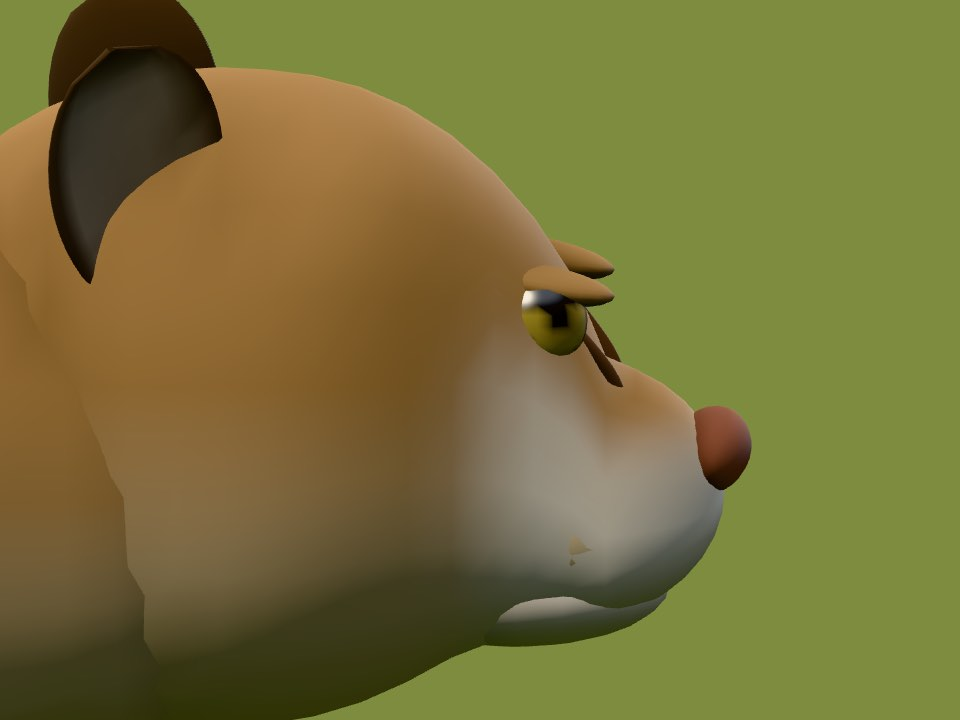
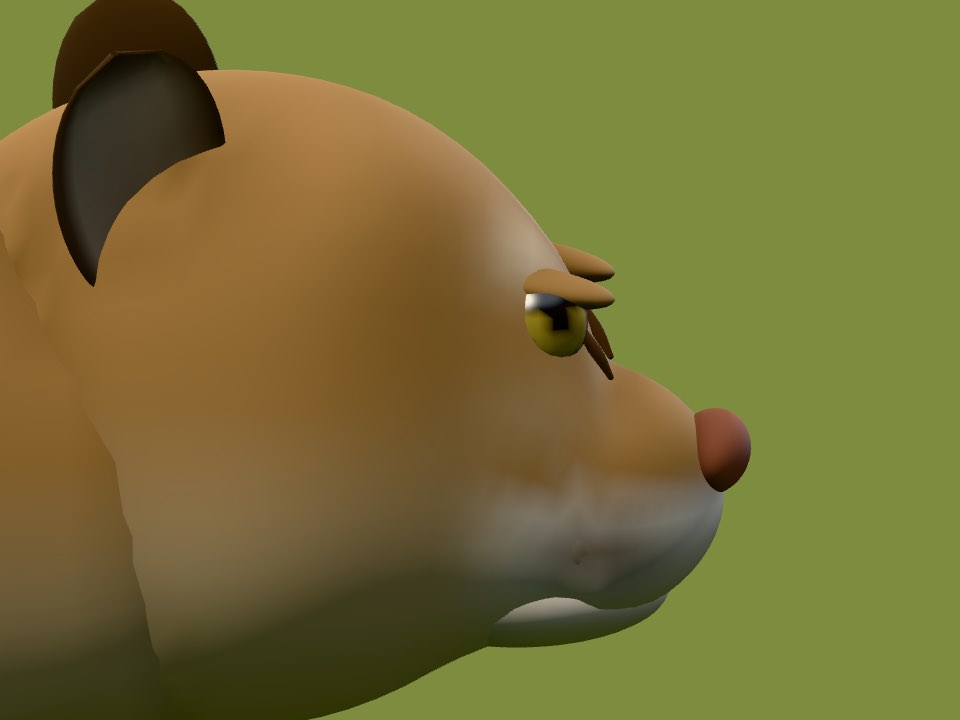
Cougar face fur: darker bridge, pale over the eyes, white lip, dark whisker roots; short eye streaks from the inner corner

diff --git a/js/render3d/animals/quadrupeds.js b/js/render3d/animals/quadrupeds.js
@@ -476,6 +476,32 @@ function cougarEye(H, hs) {
   };
 }
 
+// A cougar's face fur, in the head's vertex colours (from the photos): a darker bridge down the middle
+// of the face, a pale spot over each eye and a paler cheek under it, a white upper lip, and the dark
+// patch where the whiskers start on each side of the muzzle. Soft-edged, fur not paint. Positions follow
+// the plain cat's head in feline (hp, hr, the muzzle and the eyes as quadruped places them).
+function plainFace(s, H, L, by) {
+  const hp = [L * 0.55, by + H * 0.14], hr = [H * 0.33, H * 0.3, H * 0.24], sn = [hp[0] + hr[0] * 0.78, hp[1] - hr[1] * 0.28], snout = H * 0.15;
+  const eye = [hp[0] + hr[0] * 0.86, hp[1] + hr[1] * 0.28, hr[2] * 0.42], r = Math.max(0.55, H * 0.045);
+  const tawny = col(s.color), bridge = shade(s.color, -0.16), pale = col('#eadcc2'), white = col('#f1eadf'), patch = col('#3e2c21');
+  const blob = (p, c, k) => Math.exp(-(((p.x - c[0]) / k[0]) ** 2 + ((p.y - c[1]) / k[1]) ** 2 + ((Math.abs(p.z) - c[2]) / k[2]) ** 2));
+  const fur = (o, p) => {
+    const az = Math.abs(p.z);
+    // the bridge: the middle of the face from between the eyes to the nose, a shade darker
+    o.lerp(bridge, 0.65 * smooth(hr[2] * 0.22, hr[2] * 0.06, az) * smooth(eye[0] - r * 2, eye[0], p.x) * smooth(sn[1], sn[1] + hr[1] * 0.25, p.y));
+    o.lerp(pale, 0.7 * blob(p, [eye[0] - r * 0.4, eye[1] + r * 1.3, eye[2] * 0.9], [r * 1.1, r * 0.8, r * 1.5]));
+    o.lerp(pale, 0.4 * blob(p, [eye[0] - r * 0.8, eye[1] - r * 1.8, eye[2] * 1.15], [r * 1.8, r * 1.0, r * 1.4]));
+    o.lerp(patch, 0.75 * blob(p, [sn[0] + snout * 0.55, sn[1] - hr[1] * 0.12, hr[2] * 0.5], [snout * 0.45, hr[1] * 0.13, hr[2] * 0.3]));
+    return o;
+  };
+  const headOut = col('#000').clone(), mzOut = col('#000').clone(), base = grad(s.color, s.belly, -0.3, 0.5);
+  return {
+    head: (u, p) => fur(headOut.copy(base(u)), p),
+    // the muzzle: tawny on top, the upper lip white below the line of the nose, then the same fur
+    muzzle: (u, p) => fur(mzOut.copy(tawny).lerp(white, smooth(sn[1] + hr[1] * 0.12, sn[1] - hr[1] * 0.05, p.y)), p),
+  };
+}
+
 const MAMMALS = {
   deer: s => {
     const L = s.len, H = s.h, leg = s.leg, by = leg + H * 0.5;
@@ -587,16 +613,16 @@ const MAMMALS = {
       // (a plain cat: the hind thigh runs back into the rump, the legs taper to slim ankles over big paws)
       thighBack: plain ? H * 0.18 : 0, paw: plain ? 1.35 : 1, legSub: plain ? 8 : undefined, stifle: plain ? 0.72 : undefined, legSeg: plain ? 16 : undefined,
       neckR: H * (lion ? 0.25 : 0.3 - k * 0.02), dots: s.cheetah ? [s.dark, 9, 0.2] : s.spotted ? [s.dark, 11, 0.21] : s.bobtail ? [shade(s.color, -0.4), 13, 0.16] : null, coatFine: s.bobtail ? false : undefined, rosettes: s.rosettes,
-      coat, legColor, fine: s.clouds ? 2 : lion, detail: !!(lion || k), legRings: legColor ? 8 : undefined,
+      coat, legColor, fine: s.clouds ? 2 : lion, detail: !!(lion || k || plain), legRings: legColor ? 8 : undefined,
       paws: true, toes: true, // soft, articulated paws
       // (a plain cat carries a slightly smaller head lower and a little further forward, the skull's top
       // about level with the back, as the photos show)
       head: plain ? [L * 0.55, by + H * 0.14] : [L * 0.5, by + H * (lion ? 0.3 : 0.38 - k * 0.1)], headR: [H * (lion ? 0.34 : plain ? 0.33 : 0.36) * hs, H * (lion ? 0.31 : plain ? 0.3 : 0.33) * hs, H * (lion ? 0.32 : plain ? 0.24 : 0.34) * hs], snout: H * 0.15 * hs,
       nose: lion || k || plain ? false : undefined, eyeR: lion ? H * 0.038 : undefined,
-      ears: lion ? 'none' : s.bobtail ? 'point' : 'round', ear: H * (s.bobtail ? 0.2 : k ? 0.18 : s.rosettes || s.cheetah ? 0.27 : s.clouds ? 0.22 : plain ? 0.21 : 0.24), earTurn: plain ? 0.6 : undefined, earUp: plain ? 0.55 : undefined, earSide: plain ? 0.68 : undefined, earOut: 0.2, earBack: 0.1, earW: s.bobtail ? 0.55 : 0.45, tufts: s.bobtail, muzzle: plain ? grad(s.color, '#f1eadf', 0.2, 0.3) : grad(s.color, s.belly, 0.1, 0.4),
+      ears: lion ? 'none' : s.bobtail ? 'point' : 'round', ear: H * (s.bobtail ? 0.2 : k ? 0.18 : s.rosettes || s.cheetah ? 0.27 : s.clouds ? 0.22 : plain ? 0.21 : 0.24), earTurn: plain ? 0.6 : undefined, earUp: plain ? 0.55 : undefined, earSide: plain ? 0.68 : undefined, earOut: 0.2, earBack: 0.1, earW: s.bobtail ? 0.55 : 0.45, tufts: s.bobtail, muzzle: plain ? plainFace(s, H, L, by).muzzle : grad(s.color, s.belly, 0.1, 0.4),
       // (a plain cat, the cougar: ear backs dark, amber eyes, a pinkish-brown nose)
       earColor: plain ? shade(s.dark, -0.15) : null, eyeColor: plain ? cougarEye(H, hs) : undefined, eyeFwd: plain ? 0.86 : undefined, eyeOut: plain ? 0.42 : undefined, muzzleDepth: plain ? 0.4 : undefined, brow: plain ? 0.14 : undefined, noseColor: plain ? '#7d5246' : undefined,
-      headPaint: s.clouds ? felineSpots(s, H, base, H * 0.1) : k ? felineSpots(s, H, undefined, H * 0.09)
+      headPaint: plain ? plainFace(s, H, L, by).head : s.clouds ? felineSpots(s, H, base, H * 0.1) : k ? felineSpots(s, H, undefined, H * 0.09)
         : s.rosettes || s.cheetah || s.spotted || s.bobtail ? felineSpots(s, H, base, H * 0.07) : null, // (small solid spots on the head)
       face: (m, hp, hr, hd, sn) => {
         // a plain cat's nose: broad, flat and pinkish brown, lying on the muzzle's tip rather than a ball on it
@@ -609,7 +635,7 @@ const MAMMALS = {
           for (const side of [1, -1]) {
             const z = side * e[2];
             m.ell([e[0] - r * 0.1, e[1] + r * 0.72, z - side * r * 0.3], [H * 0.075, H * 0.017, H * 0.045], s.color, { ...hd, rot: [0, 0, -0.18] });
-            tube(m, [[e[0] + r * 0.75, e[1] - r * 0.3, z - side * r * 0.35], [e[0] + r * 1.4, e[1] - r * 1.1, z - side * r * 0.7], [e[0] + r * 1.9, e[1] - r * 2.1, z - side * r * 1.05]], [H * 0.0075, H * 0.006, H * 0.003], '#6a4c38', { ...hd, sub: 3, seg: 6 }); // (thin and a warm dark brown: a hint of the streak, not a stripe)
+            tube(m, [[e[0] + r * 0.75, e[1] - r * 0.15, z - side * r * 0.35], [e[0] + r * 1.15, e[1] - r * 0.65, z - side * r * 0.55], [e[0] + r * 1.45, e[1] - r * 1.2, z - side * r * 0.75]], [H * 0.0075, H * 0.006, H * 0.003], '#6a4c38', { ...hd, sub: 3, seg: 6 }); // (short, from the inner corner, a warm dark brown)
           }
           // the mouth: a dark lip line round the top of the chin, where it meets the muzzle (on the
           // chin's surface, a little proud of it), from the front back to the corners
@@ -641,7 +667,7 @@ const MAMMALS = {
         }
         if (lion || k) for (const side of [-1, 1]) tube(m, [[hp[0] + hr[0] * 0.72, hp[1] - hr[1] * 0.58, side * hr[2] * 0.37], [hp[0] + hr[0] * 1.1, hp[1] - hr[1] * 0.57, side * hr[2] * 0.34]], [H * 0.01, H * 0.007], '#443428', { ...hd, sub: 3, seg: 5 });
         // (pale whisker pads; a plain cat's a little smaller and lower, off the cheek under the eye)
-        if (plain) for (const side of [-1, 1]) m.ell([hp[0] + hr[0] * 0.95, hp[1] - hr[1] * 0.36, side * hr[2] * 0.26], [hr[0] * 0.28, hr[1] * 0.2, hr[2] * 0.3], s.belly || s.color, hd);
+        if (plain) for (const side of [-1, 1]) m.ell([hp[0] + hr[0] * 0.95, hp[1] - hr[1] * 0.36, side * hr[2] * 0.26], [hr[0] * 0.28, hr[1] * 0.2, hr[2] * 0.3], plainFace(s, H, L, by).muzzle, { ...hd, fine: true }); // (wearing the muzzle's fur: white lip, dark whisker roots)
         else for (const side of [-1, 1]) m.ell([hp[0] + hr[0] * 0.9, hp[1] - hr[1] * 0.3, side * hr[2] * 0.24], [hr[0] * 0.33, hr[1] * 0.24, hr[2] * 0.34], s.belly || s.color, hd);
         if (plain) m.ell([hp[0] + hr[0] * 0.8, hp[1] - hr[1] * 0.57, 0], [hr[0] * 0.42, hr[1] * 0.18, hr[2] * 0.48], '#efe7dc', hd); // (a cougar's strong, rounded white chin)
         else m.ell([hp[0] + hr[0] * 0.7, hp[1] - hr[1] * 0.65, 0], [hr[0] * 0.4, hr[1] * 0.14, hr[2] * 0.39], s.belly || s.color, hd);

diff --git a/docs/ideas/2026-11-26-aesthetics/s6.md b/docs/ideas/2026-11-26-aesthetics/s6.md
@@ -37,7 +37,8 @@ same scale. Then one change at a time, each shown to Cole against the photo befo
   a dark lip line that rises to a point under the nose; smaller, lower whisker pads.
 - **Measured against three photos**: side-on, the eye at 0.47 of nose-to-ear (photos 0.47-0.50);
   head-on, face width, pad width, eye size and spacing within about 10% of the photo.
-- **Cost**: triangles, usual model 7.9k -> 12.8k, close-up 19.9k -> 32.5k (one cougar per map).
+- **Face fur** (Cole: "much better"): soft markings in the head's vertex colours (`plainFace`): a darker bridge, a pale spot over each eye and paler cheeks, a white upper lip, dark whisker roots (on the pads too). The eye streaks are short marks from the inner corner. For soft edges the head uses the finer mesh the lion and jaguar use (`detail`).
+- **Cost**: triangles, usual model 7.9k -> 19.1k, close-up 19.9k -> 46.4k (one cougar per map; `perf-guard-check` within 10%).
   `?bench=1` filling a 1440x900 frame at 2x: the same as the bobcat and jaguar beside it in each run
   (close-up 1.6-2.0 ms, usual 2.7-3.3 ms, machine busy with checks). Shared program: no per-pixel coat.
 - `quadruped()` options, all defaulting to the old look; recorded in 0018's rules.
@@ -48,9 +49,7 @@ The tear lines under the eyes were softened at Cole's word after the pictures he
 
 ## Open questions for Cole
 
-1. **Face markings.** The face still has no dark whisker-root patches or pale fur round the eyes, which
-   real cougars have. *Recommendation:* try them next as vertex colours on the head only, one at a time
-   against the head-on photo; skip if they look painted on.
+1. **Face markings strength.** They're soft on purpose. *Recommendation:* keep; if the whisker-root patches should read from the game's usual zoom, darken `patch` in `plainFace`.
 2. **Other cats.** The bobcat, leopard, cheetah, ocelot and jaguar still have the old cat shape (thick
    tube legs, round faces). *Recommendation:* fit each the same way, two or three photos per species,
    starting with the bobcat (same map as the cougar).
